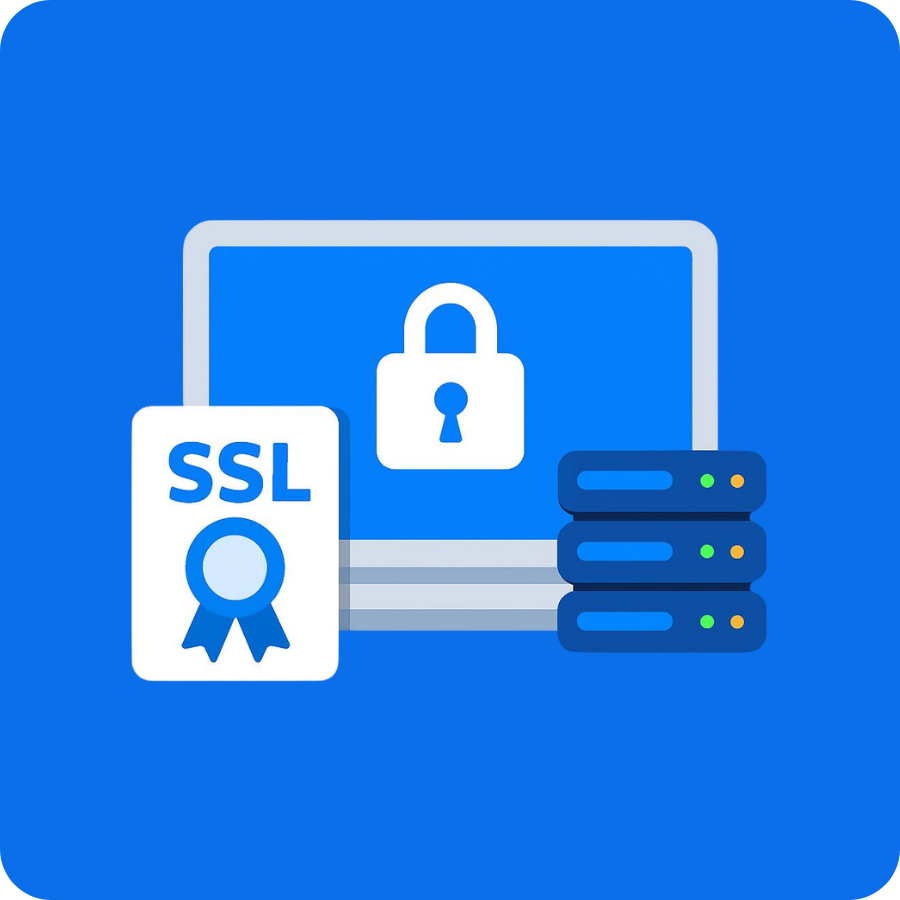
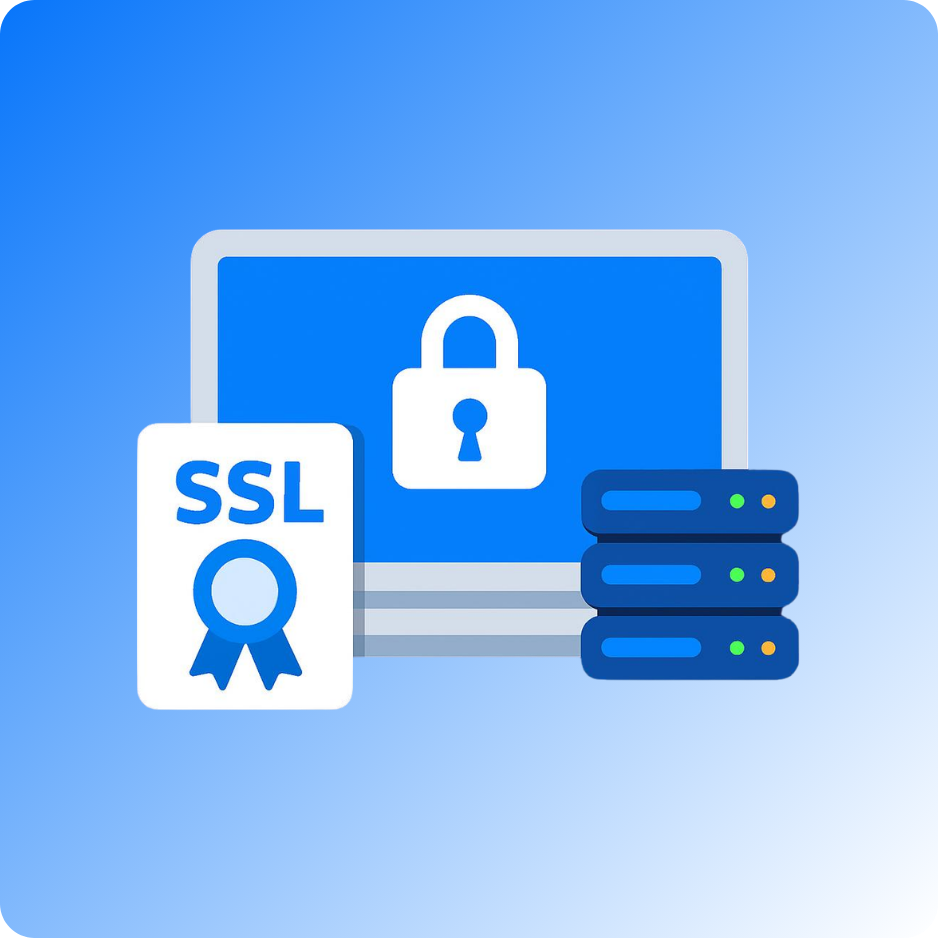
Update MarketingTools Component Image Styling and Add New Marketing Assets
- Changed image class from "object-cover" to "object-contain" for better image display.
- Added new marketing images for newsletter, promotion, and social media to enhance marketing efforts.
- Updated existing images in the benefits directory to improve visual representation.

diff --git a/components/services/service-detail-ready-store-v2/MarketingTools.tsx b/components/services/service-detail-ready-store-v2/MarketingTools.tsx
@@ -67,7 +67,7 @@ const MarketingTools = () => {
                     src={tool.image}
                     alt={tool.title}
                     fill
-                    className="object-cover object-center"
+                    className="object-contain"
                     sizes="(max-width: 640px) 100vw, (max-width: 1024px) 50vw, 33vw"
                   />
                 </div>